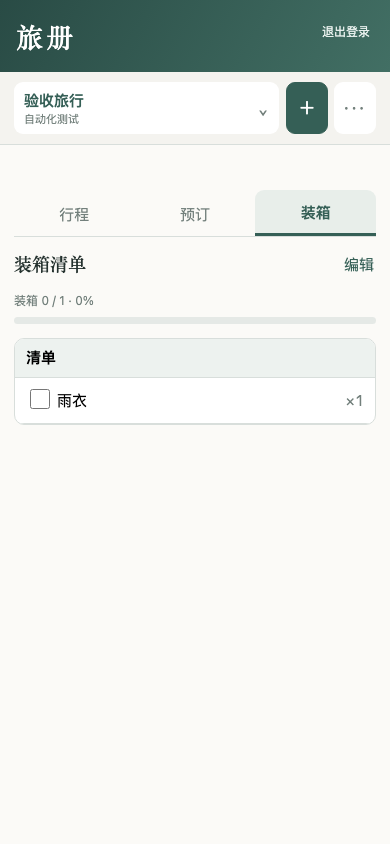
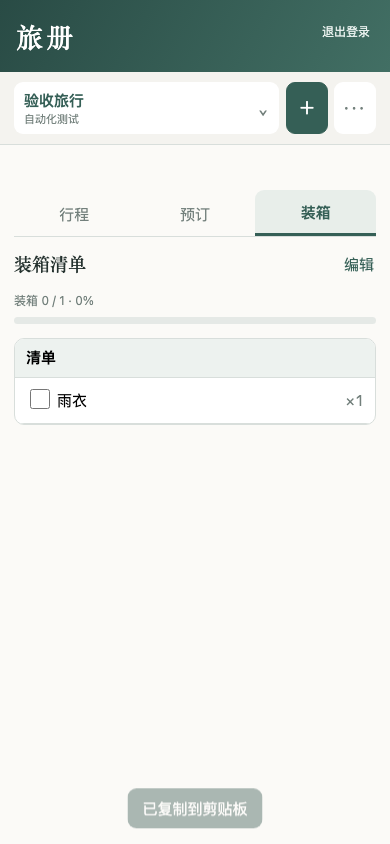
fix: remove nested mobile scrolling

Changed region(s): [[0.3077, 0.9242, 0.6769, 0.9858]]

diff --git a/test/browser.test.js b/test/browser.test.js
@@ -16,7 +16,7 @@ const document={active:'one',tab:'itinerary',trips:[{id:'one',name:'验收旅行
 test.before(async()=>{await mkdir(join(root,'docs/evidence'),{recursive:true});server=createServer(async(req,res)=>{if(req.url==='/api/trips'){res.setHeader('content-type','application/json');if(req.method==='GET')res.end(JSON.stringify({version:1,data:document}));else res.end(JSON.stringify({version:2})) ;return}let p=req.url==='/'?'index.html':req.url.slice(1);try{let data=await readFile(join(root,p));res.setHeader('content-type',mime[extname(p)]||'application/octet-stream');res.end(data)}catch{res.statusCode=404;res.end()}});await new Promise(r=>server.listen(0,'127.0.0.1',r));base=`http://127.0.0.1:${server.address().port}`;browser=await chromium.launch({executablePath:browserPath,headless:true})});
 test.after(async()=>{await browser?.close();await new Promise(r=>server.close(r))});
 
-test('desktop/mobile UX, delete guard, current day and copy feedback',async()=>{for(const [name,viewport] of [['desktop',{width:1440,height:1000}],['mobile',{width:390,height:844}]]){let context=await browser.newContext({viewport});await context.grantPermissions(['clipboard-read','clipboard-write'],{origin:base});let page=await context.newPage();await page.goto(base);await page.waitForSelector('tr.today');assert.equal(await page.locator('tr.today').count(),1);await page.locator('#tabs [data-tab="bookings"]').click();let copy=page.getByRole('button',{name:'复制航班/车次'});await copy.click();assert.equal(await page.evaluate(()=>navigator.clipboard.readText()),'G123');await page.getByText('已复制到剪贴板').waitFor();assert.equal(await page.evaluate(()=>document.documentElement.scrollWidth<=document.documentElement.clientWidth),true,`${name} has page-level horizontal overflow`);if(name==='mobile'){assert.equal(await page.locator('.data-table thead').first().evaluate(el=>getComputedStyle(el).display),'none');assert.equal(await page.locator('.data-table tbody tr').first().evaluate(el=>getComputedStyle(el).display),'block');const logout=await page.locator('#logout').boundingBox(),viewportSize=page.viewportSize();assert.ok(logout&&logout.x>viewportSize.width/2&&logout.y<130,'mobile logout is not in the upper-right header');assert.equal(await page.locator('.toolbar>div:first-child').evaluate(el=>getComputedStyle(el).display),'none','mobile repeats current trip heading');assert.equal(await page.locator('.progress').evaluate(el=>getComputedStyle(el).display),'none','packing progress leaks into another tab');await page.locator('#tabs [data-tab="packing"]').click();assert.notEqual(await page.locator('.progress').evaluate(el=>getComputedStyle(el).display),'none','packing progress is missing');const tabsBox=await page.locator('.tabs').boundingBox(),progressBox=await page.locator('.progress').boundingBox();assert.ok(tabsBox&&progressBox&&progressBox.y>tabsBox.y+tabsBox.height,'packing progress must follow tabs');assert.equal(await page.locator('.column-head').first().evaluate(el=>getComputedStyle(el).display),'none');assert.equal(await page.locator('.mobile-check').first().evaluate(el=>getComputedStyle(el).display),'block');assert.equal(await page.locator('.item-qty').first().textContent(),'×1');await page.locator('#toast').evaluate(el=>el.className='');await page.screenshot({path:join(root,'docs/evidence/ux-mobile-packing.png'),fullPage:true})}await page.screenshot({path:join(root,`docs/evidence/ux-${name}.png`),fullPage:true});await context.close()}
+test('desktop/mobile UX, delete guard, current day and copy feedback',async()=>{for(const [name,viewport] of [['desktop',{width:1440,height:1000}],['mobile',{width:390,height:844}]]){let context=await browser.newContext({viewport});await context.grantPermissions(['clipboard-read','clipboard-write'],{origin:base});let page=await context.newPage();await page.goto(base);await page.waitForSelector('tr.today');assert.equal(await page.locator('tr.today').count(),1);await page.locator('#tabs [data-tab="bookings"]').click();let copy=page.getByRole('button',{name:'复制航班/车次'});await copy.click();assert.equal(await page.evaluate(()=>navigator.clipboard.readText()),'G123');await page.getByText('已复制到剪贴板').waitFor();assert.equal(await page.evaluate(()=>document.documentElement.scrollWidth<=document.documentElement.clientWidth),true,`${name} has page-level horizontal overflow`);if(name==='mobile'){assert.equal(await page.locator('.data-table thead').first().evaluate(el=>getComputedStyle(el).display),'none');assert.equal(await page.locator('.data-table tbody tr').first().evaluate(el=>getComputedStyle(el).display),'block');const logout=await page.locator('#logout').boundingBox(),viewportSize=page.viewportSize();assert.ok(logout&&logout.x>viewportSize.width/2&&logout.y<130,'mobile logout is not in the upper-right header');assert.equal(await page.locator('.toolbar>div:first-child').evaluate(el=>getComputedStyle(el).display),'none','mobile repeats current trip heading');assert.equal(await page.locator('.progress').evaluate(el=>getComputedStyle(el).display),'none','packing progress leaks into another tab');await page.locator('#tabs [data-tab="packing"]').click();assert.notEqual(await page.locator('.progress').evaluate(el=>getComputedStyle(el).display),'none','packing progress is missing');const tabsBox=await page.locator('.tabs').boundingBox(),progressBox=await page.locator('.progress').boundingBox();assert.ok(tabsBox&&progressBox&&progressBox.y>tabsBox.y+tabsBox.height,'packing progress must follow tabs');assert.equal(await page.locator('.column-head').first().evaluate(el=>getComputedStyle(el).display),'none');assert.equal(await page.locator('.mobile-check').first().evaluate(el=>getComputedStyle(el).display),'block');assert.equal(await page.locator('.item-qty').first().textContent(),'×1');assert.equal(await page.locator('aside').evaluate(el=>getComputedStyle(el).overflowY),'visible','trip switcher creates nested scrolling');await page.locator('summary[aria-label="更多操作"]').click();const menuBox=await page.locator('.trip-actions .menu-panel').boundingBox(),asideBox=await page.locator('aside').boundingBox();assert.ok(menuBox&&asideBox&&menuBox.y+menuBox.height>asideBox.y+asideBox.height,'menu does not extend beyond switcher');await page.locator('summary[aria-label="更多操作"]').click();await page.locator('#toast').evaluate(el=>el.className='');await page.screenshot({path:join(root,'docs/evidence/ux-mobile-packing.png'),fullPage:true})}await page.screenshot({path:join(root,`docs/evidence/ux-${name}.png`),fullPage:true});await context.close()}
 let page=await browser.newPage();await page.goto(base);await page.getByRole('button',{name:/可删除旅行/}).click();await page.locator('summary[aria-label="更多操作"]').click();await page.getByRole('button',{name:'删除旅行',exact:true}).click();await page.getByText('此操作无法撤销').waitFor();await page.getByRole('button',{name:'永久删除'}).click();await page.getByText('旅行已删除').waitFor();assert.equal(await page.getByRole('button',{name:/可删除旅行/}).count(),0);page.once('dialog',d=>{assert.match(d.message(),/唯一一份旅行/);d.accept()});await page.locator('summary[aria-label="更多操作"]').click();await page.getByRole('button',{name:'删除旅行',exact:true}).click()});
 
 test('A4 landscape print PDF stays within printable page',async()=>{let page=await browser.newPage({viewport:{width:1440,height:1000}});await page.goto(base);for(const [tab,label] of [['itinerary','行程'],['bookings','预订与联系人'],['packing','装箱清单']]){await page.locator(`#tabs [data-tab="${tab}"]`).click();let file=join(root,`docs/evidence/print-${label}.pdf`);await page.pdf({path:file,format:'A4',landscape:true,printBackground:true,preferCSSPageSize:true});let pdf=await PDFDocument.load(await readFile(file));assert.ok(pdf.getPageCount()>=1);for(const p of pdf.getPages()){let {width,height}=p.getSize();assert.ok(width>height);assert.ok(Math.abs(width-841.89)<3&&Math.abs(height-595.28)<3)}}});

diff --git a/style.css b/style.css
@@ -150,9 +150,11 @@ header #logout:hover{border-color:#fff;background:#ffffff20}
   header h1{font-size:27px;line-height:1;letter-spacing:.12em}
   header #logout{top:18px;right:15px;border:0;background:transparent;padding:5px;color:#e8f0ed;font-size:12px}
   main{min-height:calc(100vh - 72px)}
-  aside{padding:10px 14px;border-bottom:1px solid var(--line)}
+  aside{padding:10px 14px;border-bottom:1px solid var(--line);overflow:visible}
   .aside-title{display:none}
-  .trip-switcher{display:grid;grid-template-columns:minmax(0,1fr) auto;gap:7px;align-items:stretch}
+  .trip-switcher{position:relative;display:grid;grid-template-columns:minmax(0,1fr) auto;gap:7px;align-items:stretch;overflow:visible}
+  .trip-actions,.trip-actions .menu{overflow:visible}
+  .trip-actions .menu-panel{z-index:50}
   nav button.active{height:52px;padding:6px 35px 6px 10px;border:0;border-radius:9px;background:#fff}
   nav button.active::after{right:11px}
   .trip-date{font-size:11px}
